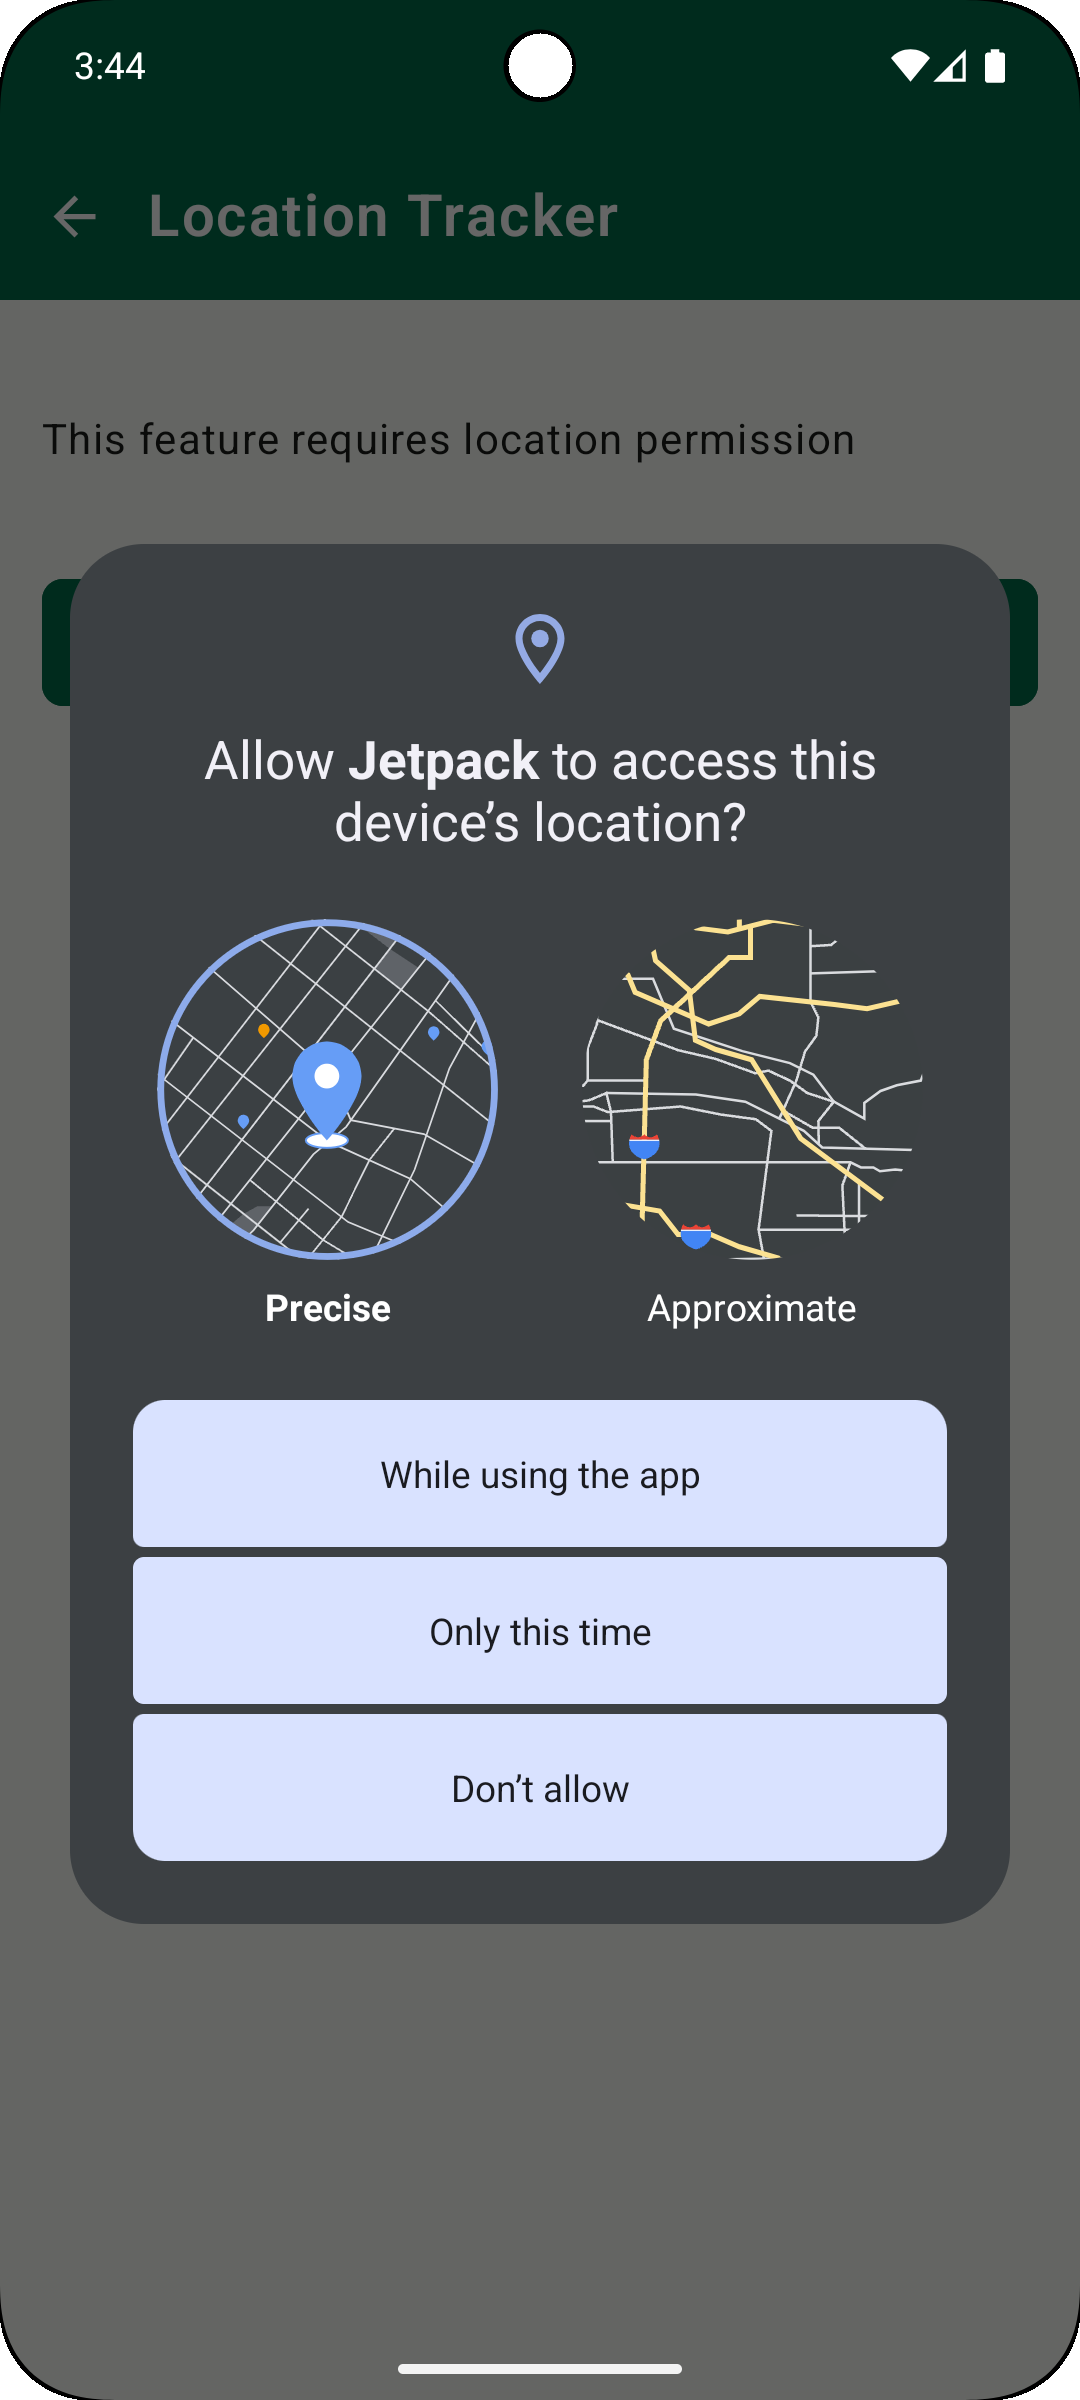
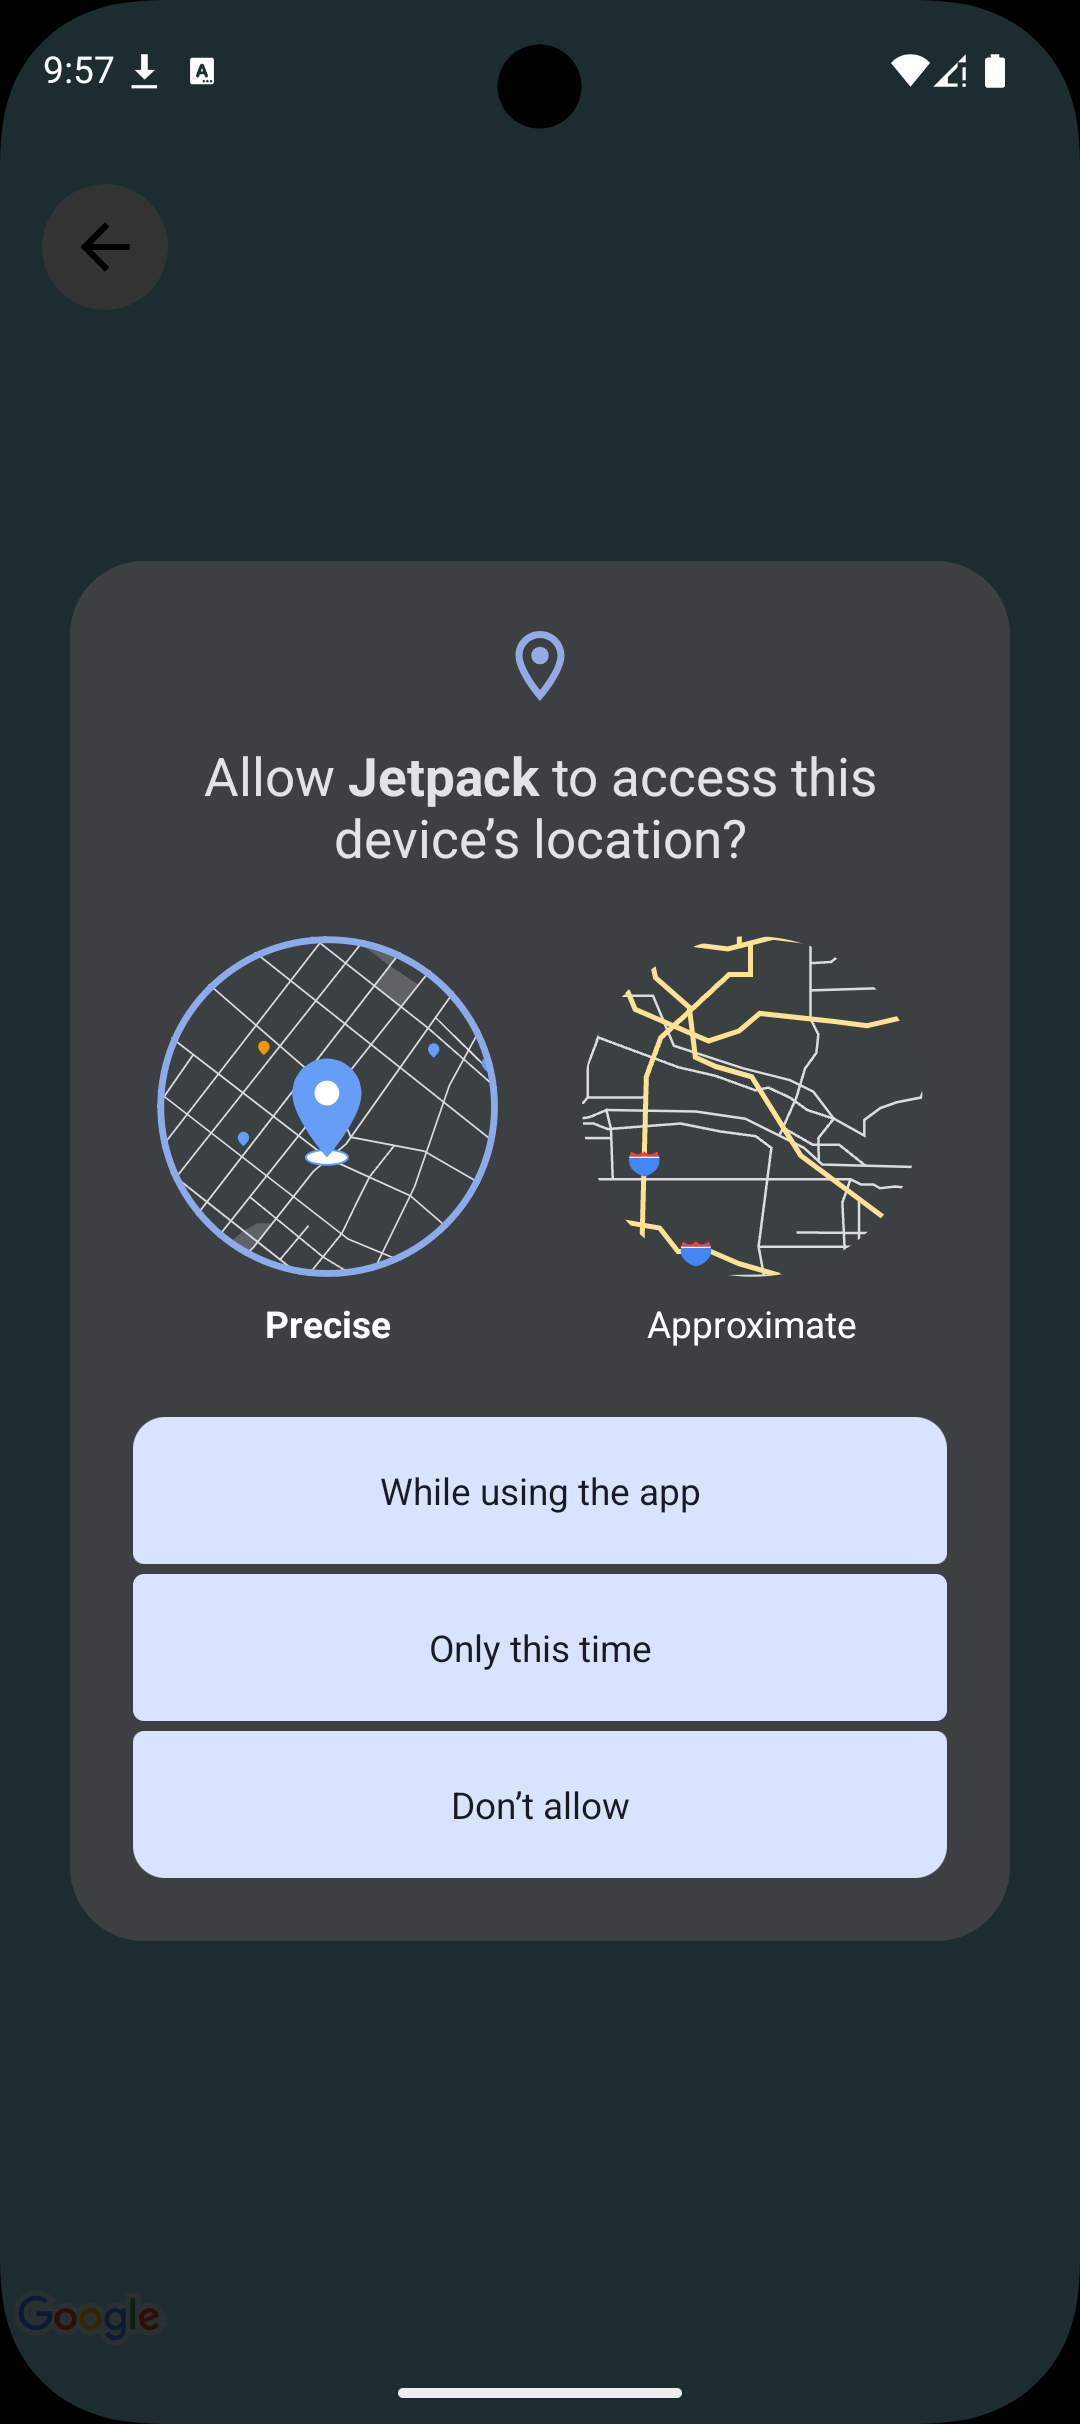
[feat/map_location] docs: update playground documentation

diff --git a/docs/jetpack_playgrounds.md b/docs/jetpack_playgrounds.md
@@ -73,10 +73,16 @@ More experiment info:<br>
 
 ## Location tracker
 
-User location tracking<br><br>
-More experiment info:<br>
+User location tracking with an integrated Google Maps UI, custom UI overlays, and automatic camera framing.
 
-- Experiment without testing.
+More experiment info:
+
+- **Architecture**: MVI (Model-View-Intent) pattern with `LocationRepository` abstraction.
+- **UI**: Jetpack Compose map rendering via `maps-compose`. Edge-to-edge support with safe padding.
+- **Location**: Tracks user fine/coarse location dynamically utilizing `FusedLocationProviderClient`.
+- **Map Interaction**: Auto-follows the user, smoothly animating the camera. Panning the map manually suspends the auto-follow mode until the user clicks the track button.
+- **State Handling**: Uses Arrow Optics for MVI immutable state manipulation. Uses `BroadcastReceiver` inside a `DisposableEffect` to seamlessly handle external system location toggle changes without memory leaks.
+- **Testing**: Experiment without testing.
 
 <img alt="Location permissions" src="./images/location_tracker_screen_1.png" width="300" /> <img alt="Location permissions" src="./images/location_tracker_screen_2.png" width="300" />
 